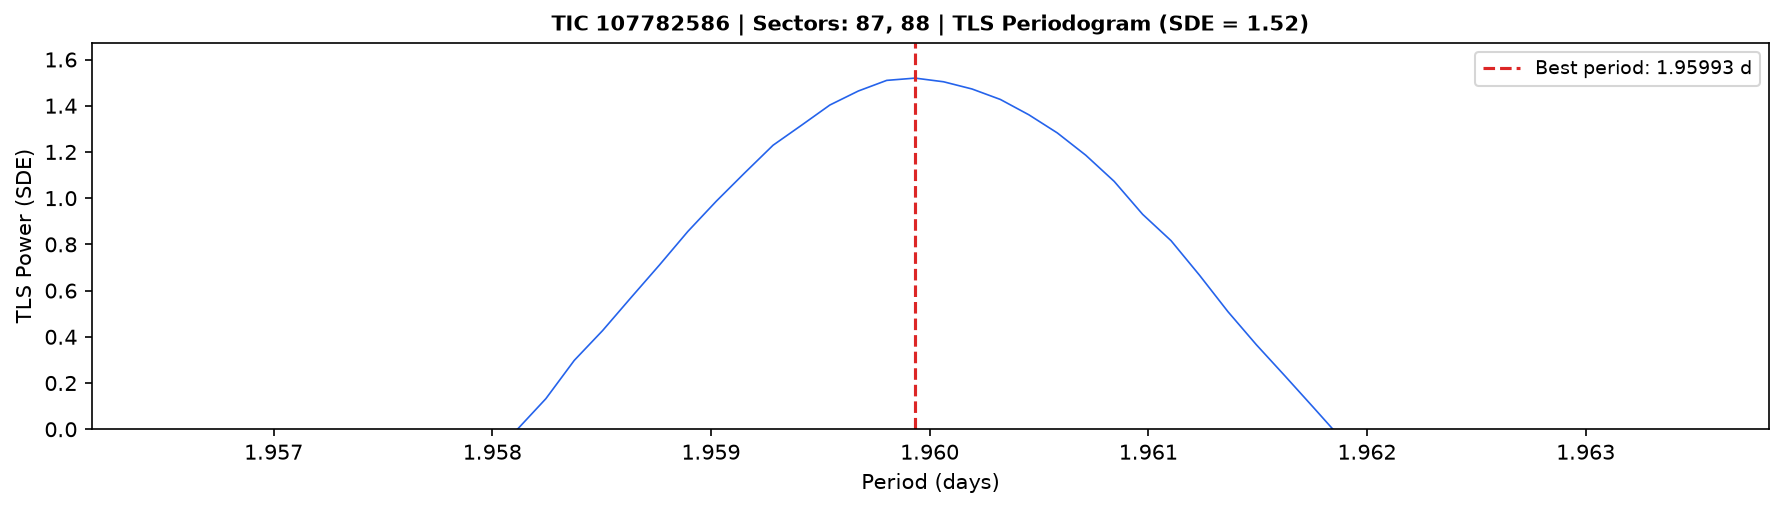
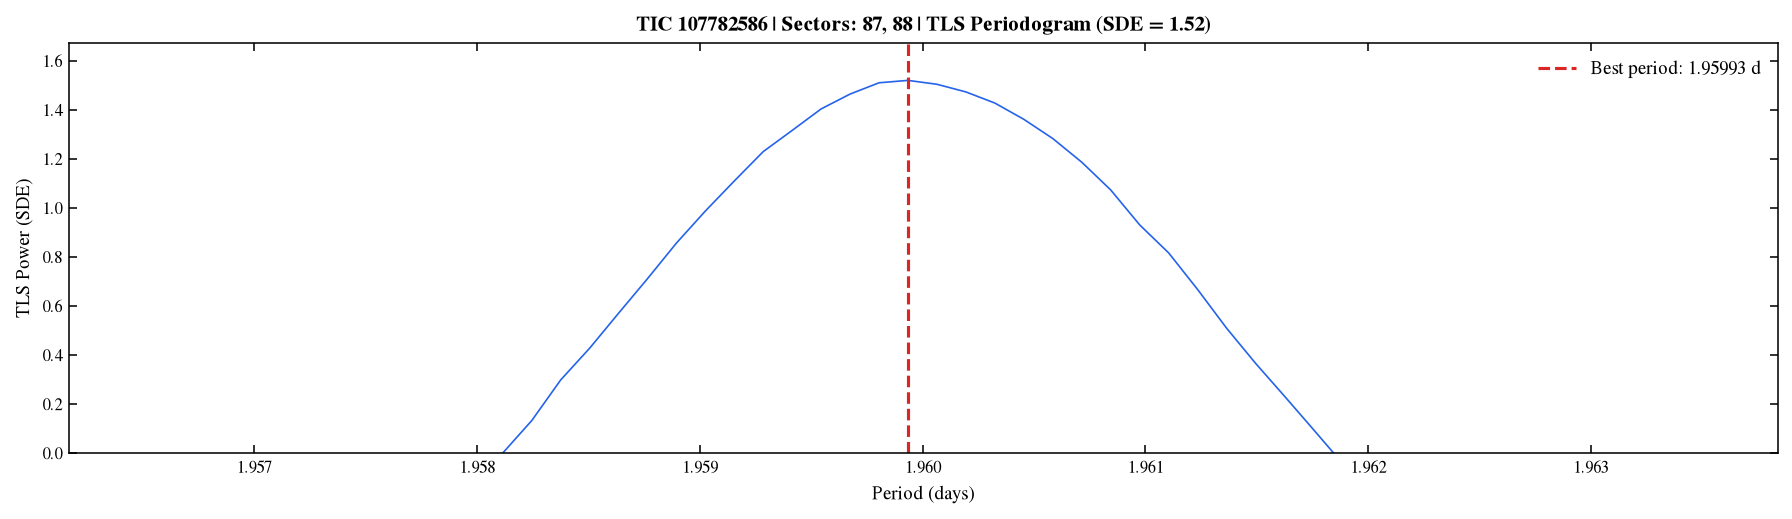
Updates

diff --git a/output_bayesian_sector_longest/TIC 107782586/report.html b/output_bayesian_sector_longest/TIC 107782586/report.html
@@ -352,7 +352,7 @@
                 <div class="param-row">
                     <span class="param-label">Planet Radius (Rₚ)</span>
                     <span class="param-value">
-                        27.95 &plusmn; 3.24 R<sub>&oplus;</sub>
+                        29.94 &plusmn; 1.17 R<sub>&oplus;</sub>
                         <span class="badge badge-derived">Derived (MCMC)</span>
                     </span>
                 </div>
@@ -376,7 +376,7 @@
                 <div class="param-row">
                     <span class="param-label">Semi-major Axis (a)</span>
                     <span class="param-value">
-                        0.1612 &plusmn; 0.0187 AU
+                        0.1727 &plusmn; 0.0068 AU
                         <span class="badge badge-derived">Derived (MCMC)</span>
                     </span>
                 </div>
@@ -384,7 +384,7 @@
                 <div class="param-row">
                     <span class="param-label">Equilibrium Temp (T<sub>eq</sub>)</span>
                     <span class="param-value">
-                        4735 &plusmn; 3 K
+                        4768 &plusmn; 148 K
                         <span class="badge badge-derived">Derived (MCMC)</span>
                     </span>
                 </div>
@@ -771,18 +771,18 @@
     "t14_hr_err": 0.0,
     "t14_hr_16": 3.0000000000000013,
     "t14_hr_84": 3.0000000000000013,
-    "rp_earth": 27.94504933911871,
-    "rp_earth_err": 3.243627354828986,
-    "rp_earth_16": 25.739382737834998,
-    "rp_earth_84": 30.15071594040242,
-    "a_au": 0.16115303748205315,
-    "a_au_err": 0.018705295322518606,
-    "a_au_16": 0.1484334366627405,
-    "a_au_84": 0.1738726383013658,
-    "t_eq": 4735.437171746111,
-    "t_eq_err": 2.9377510943486413,
-    "t_eq_16": 4733.439501001953,
-    "t_eq_84": 4737.434842490268
+    "rp_earth": 29.94455203351654,
+    "rp_earth_err": 1.1713844170860952,
+    "rp_earth_16": 29.148010629897996,
+    "rp_earth_84": 30.741093437135085,
+    "a_au": 0.17268373577302715,
+    "a_au_err": 0.006755119827550879,
+    "a_au_16": 0.16809025429029253,
+    "a_au_84": 0.17727721725576173,
+    "t_eq": 4768.062512692413,
+    "t_eq_err": 147.63317745921586,
+    "t_eq_16": 4667.671952020147,
+    "t_eq_84": 4868.453073364681
   },
   "planets": [
     {
@@ -814,18 +814,18 @@
       "t14_hr_err": 0.0,
       "t14_hr_16": 3.0000000000000013,
       "t14_hr_84": 3.0000000000000013,
-      "rp_earth": 27.94504933911871,
-      "rp_earth_err": 3.243627354828986,
-      "rp_earth_16": 25.739382737834998,
-      "rp_earth_84": 30.15071594040242,
-      "a_au": 0.16115303748205315,
-      "a_au_err": 0.018705295322518606,
-      "a_au_16": 0.1484334366627405,
-      "a_au_84": 0.1738726383013658,
-      "t_eq": 4735.437171746111,
-      "t_eq_err": 2.9377510943486413,
-      "t_eq_16": 4733.439501001953,
-      "t_eq_84": 4737.434842490268
+      "rp_earth": 29.94455203351654,
+      "rp_earth_err": 1.1713844170860952,
+      "rp_earth_16": 29.148010629897996,
+      "rp_earth_84": 30.741093437135085,
+      "a_au": 0.17268373577302715,
+      "a_au_err": 0.006755119827550879,
+      "a_au_16": 0.16809025429029253,
+      "a_au_84": 0.17727721725576173,
+      "t_eq": 4768.062512692413,
+      "t_eq_err": 147.63317745921586,
+      "t_eq_16": 4667.671952020147,
+      "t_eq_84": 4868.453073364681
     }
   ],
   "diagnostics": {
@@ -1278,7 +1278,7 @@
   },
   "metadata": {
     "tess_pipeline_version": "0.1.0",
-    "run_start": "2026-07-07T11:17:37.496948",
+    "run_start": "2026-07-07T11:23:07.167897",
     "sectors_used": [
       87,
       88